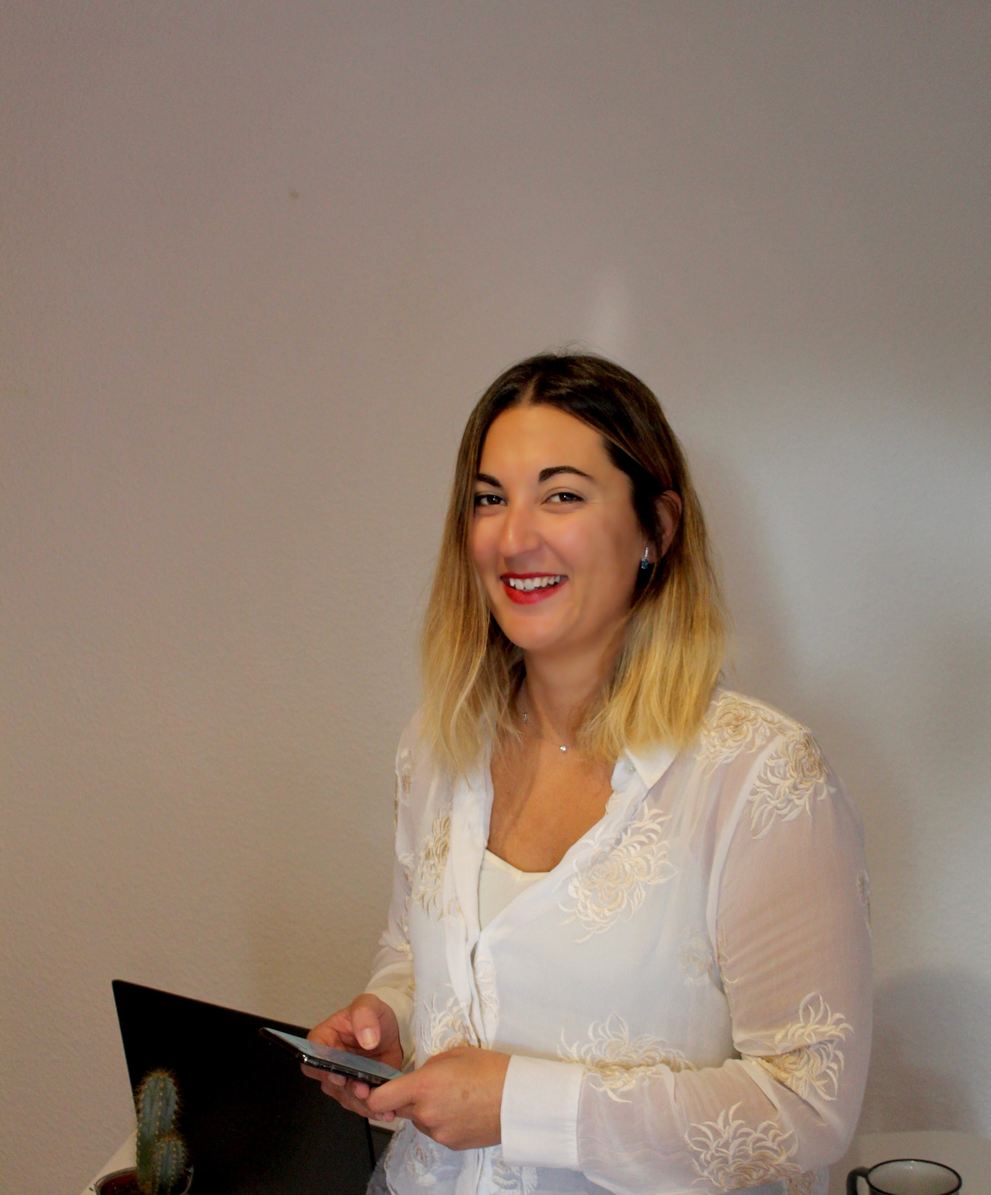
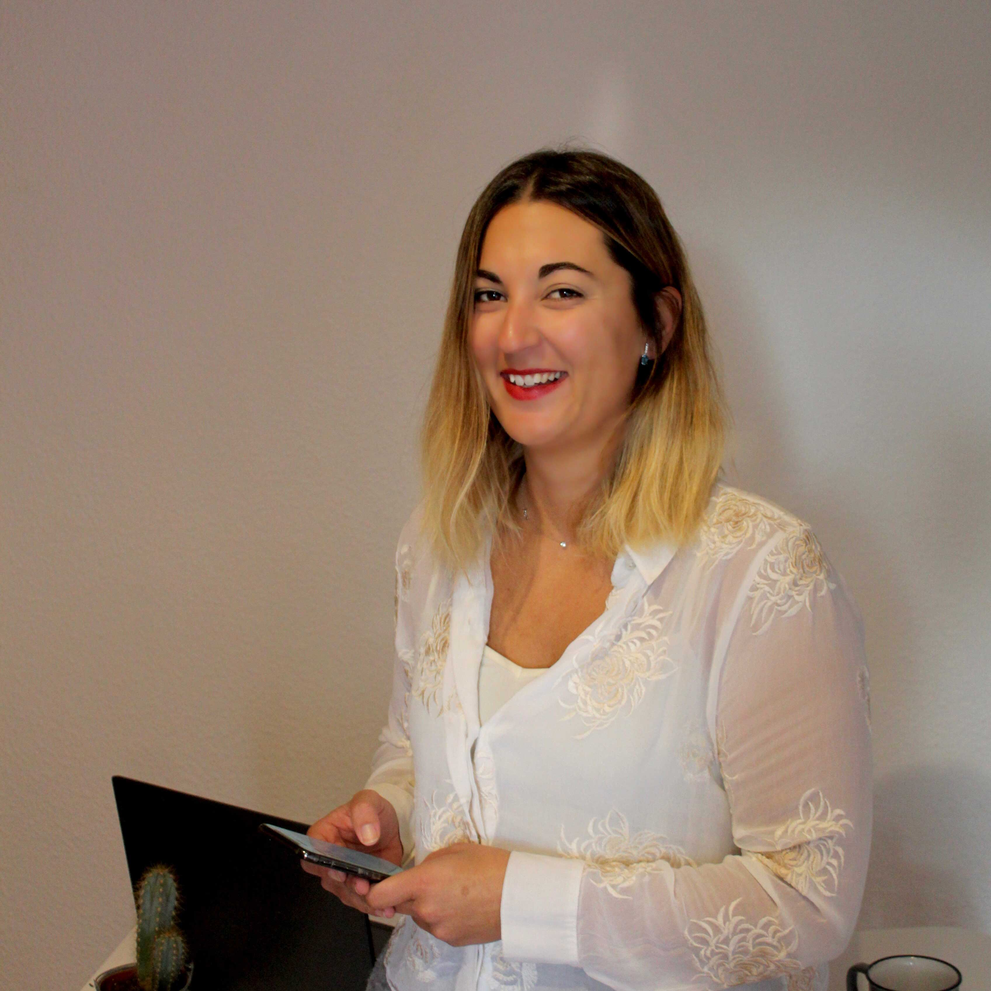
fix photo dimension, chaged info and added new speakers

diff --git a/index.html b/index.html
@@ -231,7 +231,6 @@
                     <div class="col-12 mt-lg-5">
                         <h3 class="text-white">Meet our speakers and experts.</h3>
                         <div class="title-border mt-3 mb-5"></div>
-                        <h6 class="subtitle-blue mb-3">1-on-1 online meetings</h6>
                     </div>
                 </div>
                 <div class="row row-cols-2 row-cols-md-3 row-cols-lg-5">
@@ -241,7 +240,7 @@
                             <img src="content/img/speakers/Tirso Garcia.JPG" class="card-img-top"
                                  alt="Tirso Garcia profile photo">
                             <h6 class="card-title speaker-name mt-2 text-white mb-1">Tirso Garcia</h6>
-                            <p class="card-text text-white speaker-position">Fundador y CMO de iGERENT
+                            <p class="card-text text-white speaker-position">Founder & CMO of iGERENT
                                 <a href="https://www.linkedin.com/in/tirsog/" target="_blank"><i
                                         class="fa fa-linkedin d-flex justify-content-start" style="color:white"></i></a></p>
                         </div>
@@ -252,7 +251,7 @@
                             <img src="content/img/speakers/Ingrid Astiz Jensen.jpg" class="card-img-top"
                                  alt="Ingrid Astiz Jensen profile photo">
                             <h6 class="card-title speaker-name mt-2 text-white mb-1">Ingrid Astiz Jensen</h6>
-                            <p class="card-text text-white speaker-position">Co-Founder de Wise Work
+                            <p class="card-text text-white speaker-position">Co-Founder of Wise Work
                                 <a href="https://www.linkedin.com/in/ingridastiz/" target="_blank"><i
                                         class="fa fa-linkedin d-flex justify-content-start" style="color:white"></i></a></p>
                         </div>
@@ -263,7 +262,7 @@
                             <img src="content/img/speakers/Yiran Chen.jpg" class="card-img-top"
                                  alt="Yiran Chen profile photo">
                             <h6 class="card-title speaker-name mt-2 text-white mb-1">Yiran Chen</h6>
-                            <p class="card-text text-white speaker-position">Curious researcher with five-year experience
+                            <p class="card-text text-white speaker-position">Business ecosystem strategy design
                                 <a href="https://www.linkedin.com/in/yiranfinland/" target="_blank"><i
                                         class="fa fa-linkedin d-flex justify-content-start" style="color:white"></i></a></p>
                         </div>
@@ -274,7 +273,7 @@
                             <img src="content/img/speakers/Juan Duque.jfif" class="card-img-top"
                                  alt="Juan Duque profile photo">
                             <h6 class="card-title speaker-name mt-2 text-white mb-1">Juan Duque</h6>
-                            <p class="card-text text-white speaker-position">Co-founder Amics Digitals | Especialista en Growth LinkedIn & Business Development B2B para Pymes y StartUps
+                            <p class="card-text text-white speaker-position">Co-founder Amics Digitals
                                 <a href="https://www.linkedin.com/in/juanduque-growthlinked-in/" target="_blank"><i
                                         class="fa fa-linkedin d-flex justify-content-start" style="color:white"></i></a></p>
                         </div>
@@ -285,7 +284,7 @@
                             <img src="content/img/speakers/Daniel Bustamante.jpeg" class="card-img-top"
                                  alt="Daniel Bustamante profile photo">
                             <h6 class="card-title speaker-name mt-2 text-white mb-1">Daniel Bustamante</h6>
-                            <p class="card-text text-white speaker-position">Co-founder Amics Digitals | Especialista en Growth LinkedIn & Business Development B2B para Pymes y StartUps
+                            <p class="card-text text-white speaker-position">Ceo & Cmo of FiStores
                                 <a href="https://www.linkedin.com/in/danielbustamantegutierrez/" target="_blank"><i
                                         class="fa fa-linkedin d-flex justify-content-start" style="color:white"></i></a></p>
                         </div>
@@ -296,7 +295,7 @@
                             <img src="content/img/speakers/Jorge Barriobero.jpeg" class="card-img-top"
                                  alt="Jorge Barriobero profile photo">
                             <h6 class="card-title speaker-name mt-2 text-white mb-1">Jorge Barriobero</h6>
-                            <p class="card-text text-white speaker-position">Co-founder & CPO Tiempo Relativo
+                            <p class="card-text text-white speaker-position">Co-founder & CPO of Tiempo Relativo
                                 <a href="https://www.linkedin.com/in/jorgebarriobero/" target="_blank"><i
                                         class="fa fa-linkedin d-flex justify-content-start" style="color:white"></i></a></p>
                         </div>
@@ -308,7 +307,7 @@
                             <img src="content/img/speakers/Pablo Varela.jpeg" class="card-img-top"
                                  alt="Pablo Varela profile photo">
                             <h6 class="card-title speaker-name mt-2 text-white mb-1">Pablo Varela</h6>
-                            <p class="card-text text-white speaker-position">Co-Founder & CEO en TiempoRelativo
+                            <p class="card-text text-white speaker-position">Co-Founder & CEO of TiempoRelativo
                                 <a href="https://www.linkedin.com/in/pablovarelanieto/" target="_blank"><i
                                         class="fa fa-linkedin d-flex justify-content-start" style="color:white"></i></a></p>
                         </div>
@@ -341,7 +340,7 @@
                             <img src="content/img/speakers/David-5.jpg" class="card-img-top"
                                  alt="David Moreira profile photo">
                             <h6 class="card-title speaker-name mt-2 text-white mb-1">David Moreira</h6>
-                            <p class="card-text text-white speaker-position">Emprendedor y ejecutivo de negocios
+                            <p class="card-text text-white speaker-position">Entrepreneur & business executive
                                 <a href="https://www.linkedin.com/in/davidmoreira/" target="_blank"><i
                                         class="fa fa-linkedin d-flex justify-content-start" style="color:white"></i></a></p>
                         </div>
@@ -353,7 +352,7 @@
                             <img src="content/img/speakers/Luigi Spina.jpg" class="card-img-top"
                                  alt="Luigi Spina profile photo">
                             <h6 class="card-title speaker-name mt-2 text-white mb-1">Luigi Spina</h6>
-                            <p class="card-text text-white speaker-position">Engineer with passion for business
+                            <p class="card-text text-white speaker-position">Startup and Small Business Consultant
                                 <a href="https://www.linkedin.com/in/luigispina-consultant/" target="_blank"><i
                                         class="fa fa-linkedin d-flex justify-content-start" style="color:white"></i></a></p>
                         </div>
@@ -366,6 +365,28 @@
                             <h6 class="card-title speaker-name mt-2 text-white mb-1">Julian Torres</h6>
                             <p class="card-text text-white speaker-position">Co-Founder de Wise Work
                                 <a href="https://www.linkedin.com/in/juliantorresgomez/" target="_blank"><i
+                                        class="fa fa-linkedin d-flex justify-content-start" style="color:white"></i></a></p>
+                        </div>
+                    </div>
+
+                    <div class="col mb-4 px-2 px-sm-3 speakers-wrapper">
+                        <div class="card card-speaker" style="background-color: inherit;">
+                            <img src="content/img/speakers/asier_arranz.jpg" class="card-img-top"
+                                 alt="Asier Arranz profile photo">
+                            <h6 class="card-title speaker-name mt-2 text-white mb-1">Asier Arranz</h6>
+                            <p class="card-text text-white speaker-position">Developer Marketing Manager at NVIDIA
+                                <a href="https://www.linkedin.com/in/asierarranz/" target="_blank"><i
+                                        class="fa fa-linkedin d-flex justify-content-start" style="color:white"></i></a></p>
+                        </div>
+                    </div>
+
+                    <div class="col mb-4 px-2 px-sm-3 speakers-wrapper">
+                        <div class="card card-speaker" style="background-color: inherit;">
+                            <img src="content/img/speakers/Ruben Marin.jpg" class="card-img-top"
+                                 alt="Rubén Marin profile photo">
+                            <h6 class="card-title speaker-name mt-2 text-white mb-1">Rubén Marin.jpg</h6>
+                            <p class="card-text text-white speaker-position">Co-Founder en ETURGO
+                                <a href="https://www.linkedin.com/in/rub%C3%A9n-mar%C3%ADn-entrepreneur-i-tourism-i-startups-2637a9167/" target="_blank"><i
                                         class="fa fa-linkedin d-flex justify-content-start" style="color:white"></i></a></p>
                         </div>
                     </div>
@@ -404,6 +425,26 @@
                             </a>
                         </div>
 
+                        <div class="card-speaker bcontainer">
+                            <a href="https://amicsdigitals.com/" target="_blank"><img
+                                    src="content/img/es-partners/Amics Digitals.jpg" class="img-fluid bimage"
+                                    alt="MentorDay logo">
+                                <div class="bmiddle">
+                                    <div class="btext">Website</div>
+                                </div>
+                            </a>
+                        </div>
+
+                        <div class="card-speaker bcontainer">
+                            <a href="https://www.nvidia.com/" target="_blank"><img
+                                    src="content/img/es-partners/Nvidia_logo.svg" class="img-fluid bimage"
+                                    alt="MentorDay logo">
+                                <div class="bmiddle">
+                                    <div class="btext">Website</div>
+                                </div>
+                            </a>
+                        </div>
+
                     </div>
 
                     <!--COL 2  -->
@@ -427,6 +468,16 @@
                                 </div>
                             </a>
                         </div>
+
+                        <div class="card-speaker bcontainer">
+                            <a href="https://newdomotec.com/" target="_blank"><img
+                                    src="content/img/es-partners/Captura.JPG" class="img-fluid bimage"
+                                    alt="MentorDay logo">
+                                <div class="bmiddle">
+                                    <div class="btext">Website</div>
+                                </div>
+                            </a>
+                        </div>
                     </div>
                     
                     <!--COL 3  -->
@@ -435,6 +486,26 @@
                             <a href="https://www.tiemporelativo.es/" target="_blank"><img
                                     src="content/img/es-partners/logo tiempo relativo.JPG" class="img-fluid bimage"
                                     alt="Tiempo Relativo logo">
+                                <div class="bmiddle">
+                                    <div class="btext">Website</div>
+                                </div>
+                            </a>
+                        </div>
+
+                        <div class="card-speaker bcontainer">
+                            <a href="https://www.eturgo.com/" target="_blank"><img
+                                    src="content/img/es-partners/ETURGO logo 1b small.png" class="img-fluid bimage"
+                                    alt="MentorDay logo">
+                                <div class="bmiddle">
+                                    <div class="btext">Website</div>
+                                </div>
+                            </a>
+                        </div>
+
+                        <div class="card-speaker bcontainer">
+                            <a href="https://www.getontop.com/" target="_blank"><img
+                                    src="content/img/es-partners/Logo Ontop.JPG" class="img-fluid bimage"
+                                    alt="MentorDay logo">
                                 <div class="bmiddle">
                                     <div class="btext">Website</div>
                                 </div>
@@ -452,7 +523,7 @@
     <section id="section-partners">
         <div class="container">
             <div class="col-12">
-                <h3 class="text-white">Meet our Spanish organizer.</h3>
+                <h3 class="text-white">Meet our team.</h3>
                 <div class="title-border mt-3 mb-5"></div>
                 <div class="row row-cols-2 row-cols-lg-4">
                   <div class="col mb-4 partners-wrapper">

diff --git a/css/landing.css b/css/landing.css
@@ -274,6 +274,8 @@ hr {
   border-radius: 15px;
   box-shadow: 2px 1px 20px 10px #f40654;
   padding-left: 70px;
+  padding-top: 30px;
+  padding-bottom: 30px;
 }
 
 /* Create four equal columns that sits next to each other */
@@ -306,4 +308,18 @@ hr {
     flex: 100%;
     max-width: 100%;
   }
+}
+
+
+#section-strategic-partners .bcontainer {
+    height: 100px;
+    margin-bottom: 0px;
+}
+
+#section-strategic-partners .bcontainer img {
+    position: absolute;
+    top: 50%;
+    left: 50%;
+    transform: translate(-50%, -50%);
+    -ms-transform: translate(-50%, -50%);
 }
